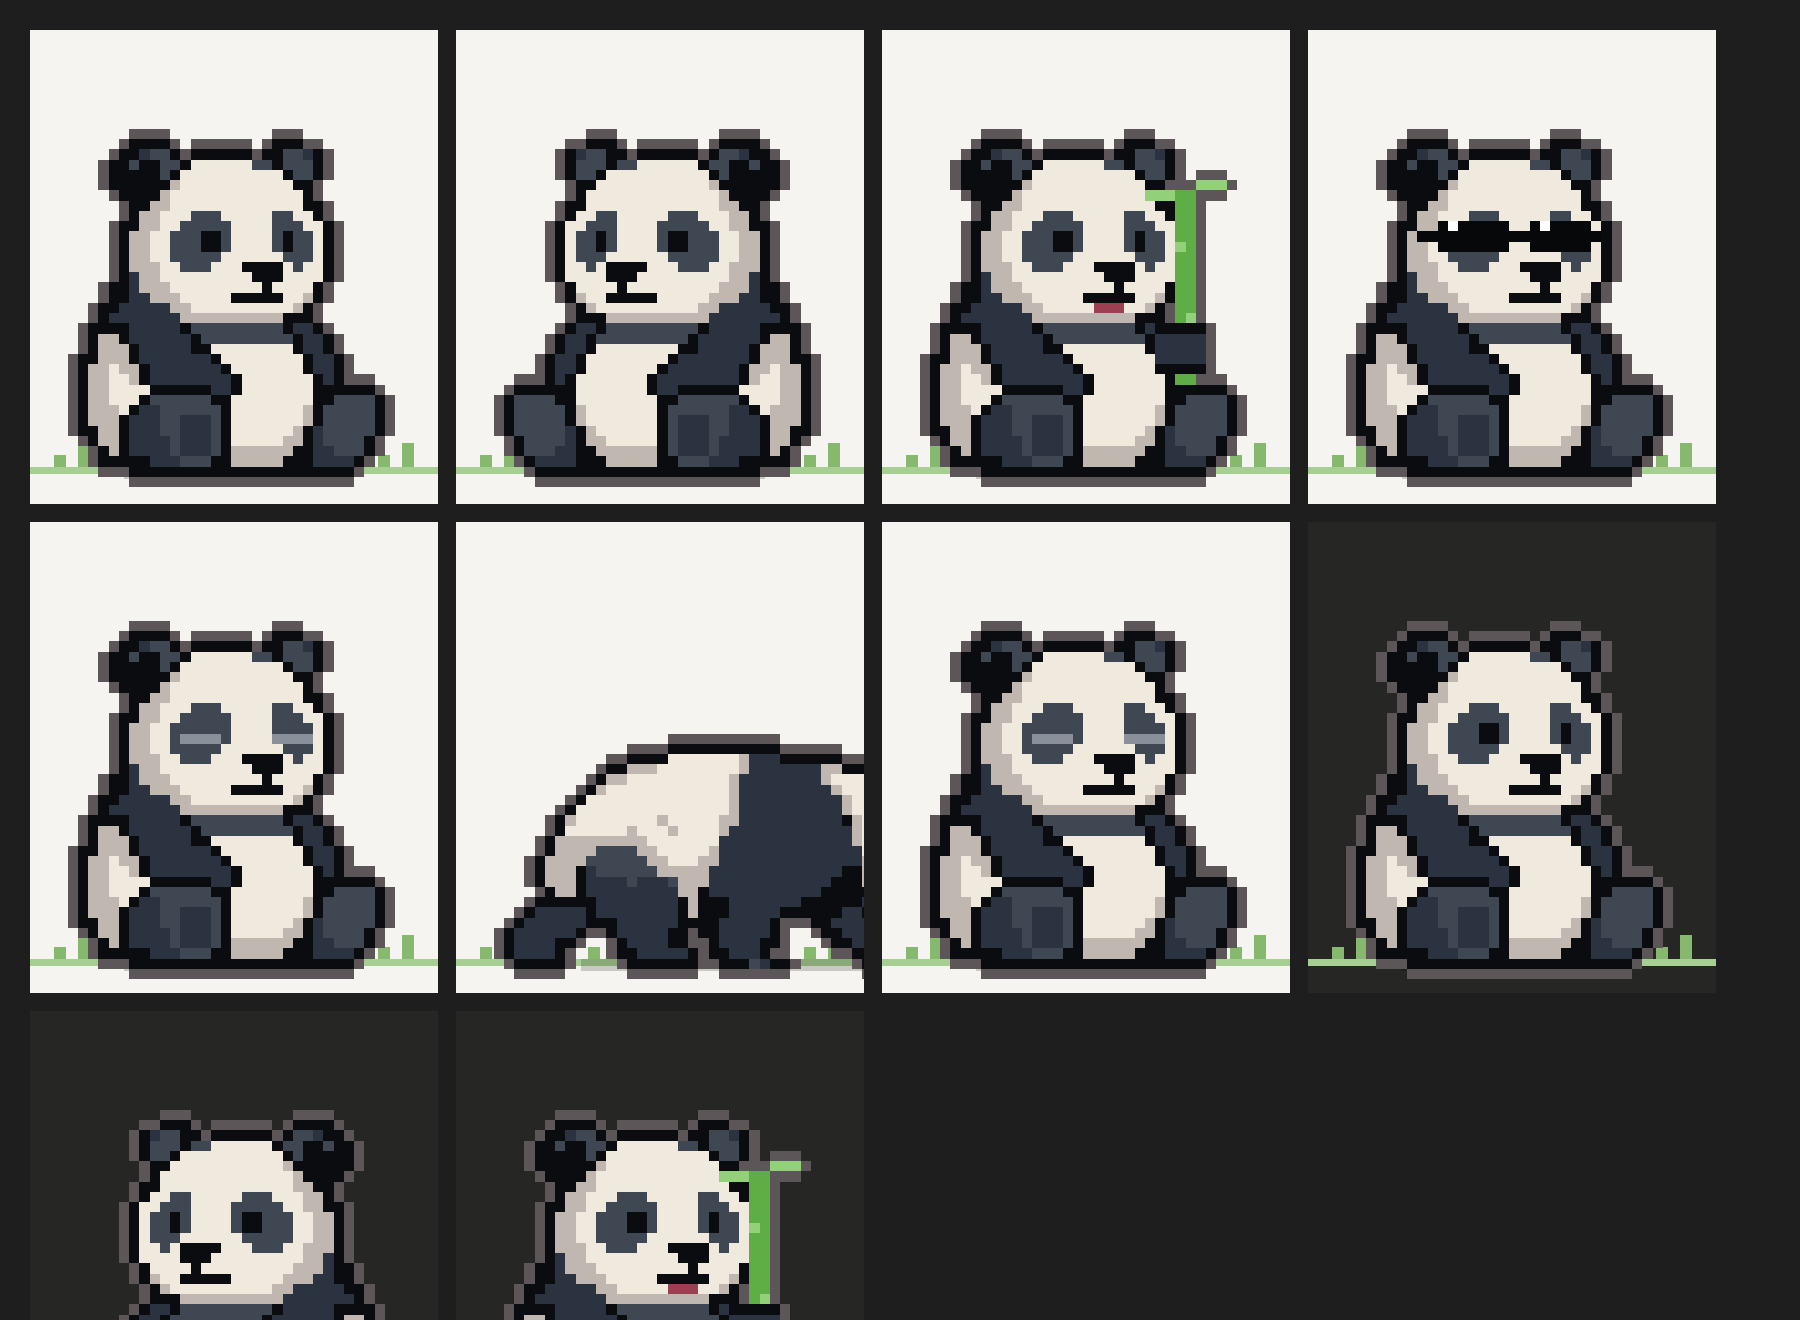
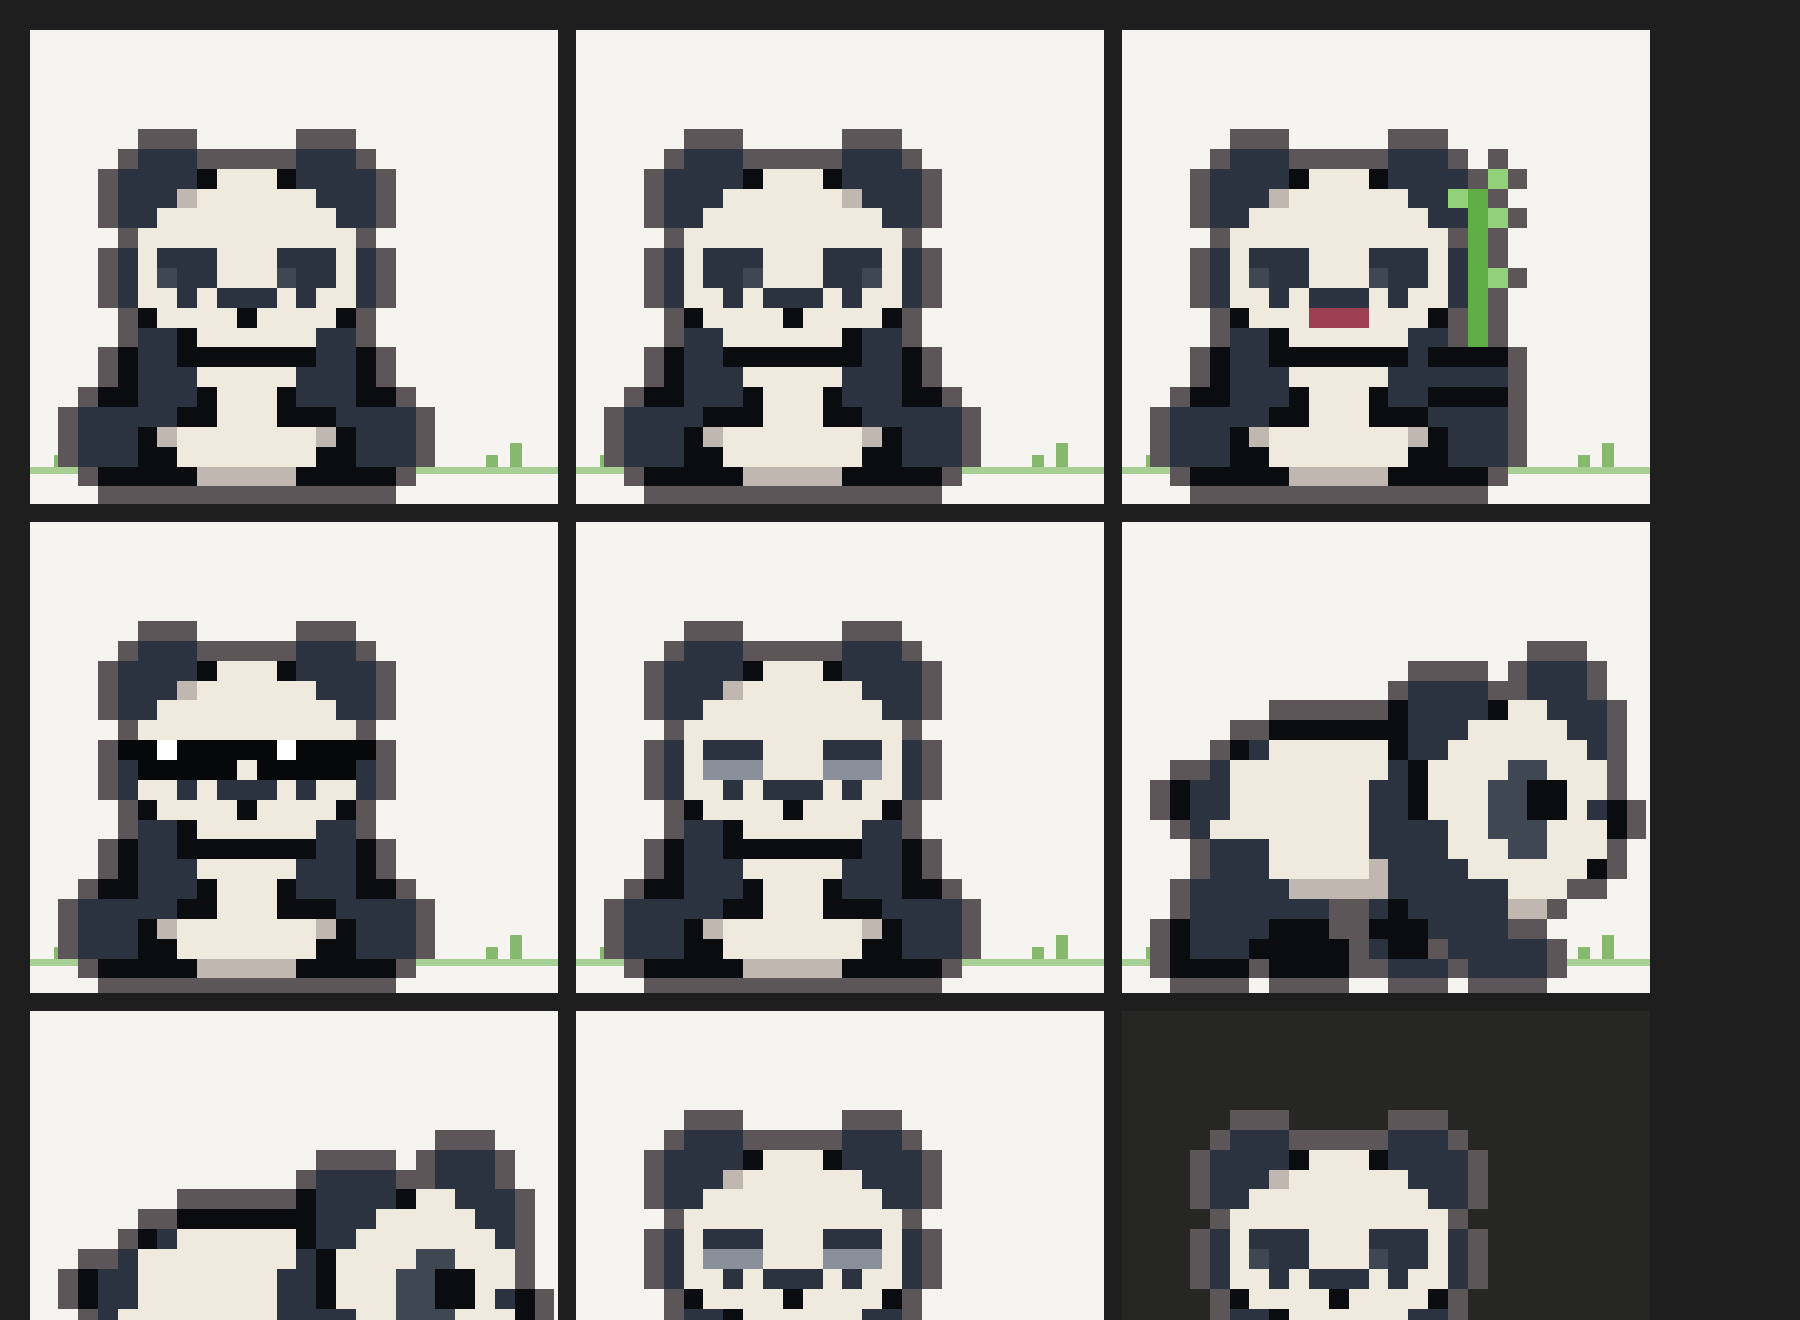
buddy: new chunkier panda art
Replace the sitting and walking sprites with the new 17x17 and 23x16
pixel art (art/panda.png); the second walking step is the first with
its legs moved. The terminal draws it pixel for pixel in 9 lines.

Claude-Session: https://claude.ai/code/session_01FB6BJrRqbn2oSwVncdYdDf

diff --git a/plugins/buddy/hooks/panda.ts b/plugins/buddy/hooks/panda.ts
@@ -2,8 +2,7 @@ import type { Scene } from '../types'
 import { bubbleSvg, halfBlocksFromPixels, mirror, outline, pick, pixels, put, shadowSvg, smoothResize, spriteToRgba, svgOpen } from './shared'
 import type { Character } from './shared'
 
-// The panda: pixel art for sitting (art/sit.png) and walking (art/walk-1.png,
-// art/walk-2.png), facing right. Blinking, shades, chewing and the bamboo are
+// The panda: pixel art for sitting and walking (art/panda.png), facing right. Blinking, shades, chewing and the bamboo are
 // drawn over the sitting sprite in code.
 //
 // Pixels: E outline and eyes, K dark fur, k lighter dark fur, W white fur,
@@ -12,39 +11,23 @@ import type { Character } from './shared'
 type Pose = { w: number; h: number; sprite: string[] }
 
 const SIT = [
-  '.....EEEE..........EEE........',
-  '....EEKkkE.EEEEEE.EEkkKE......',
-  '...EEkEEkkEWWWWWWkkEkkkE......',
-  '...EEEEEkEWWWWWWWWWWEkkE......',
-  '...EEEEEESWWWWWWWWWWWEE.......',
-  '....EEEESWWWWWWWWWWWWWE.......',
-  '.....EESSWWWWWWWWWWWWWEE......',
-  '.....ESSWWWkkkWWWWWkkWWE......',
-  '....EESSWWkkkkkWWWWkkkWWE.....',
-  '....ESSWWkkkEEkWWWWkEkkWE.....',
-  '....ESSWWkkkEEkWWWWkEkkWE.....',
-  '....ESSWWkkkkkWWWWWWkkkWE.....',
-  '....ESSSWWkkkWWWEEEEWkWWE.....',
-  '....EKSSWWWWWWWWWEEEWWWWE.....',
-  '...EEKSSSWWWWWWWWWEWWWWE......',
-  '...EEKKSSSWWWWWEEEEEWWSE......',
-  '..EEKKKKKSSWWWWWWWWWWSE.......',
-  '..EKKKKKKKSSSSSSSSSSEEE.......',
-  '.EEEEKKKKKEkkkkkkkkkEKKE......',
-  '.ESSEKKKKKKEkkkkkkkkkEKKE.....',
-  '.ESSSEKKKKKEEWWWWWWWWEKKE.....',
-  'EESSSEKKKKKKKEWWWWWWWWEKKE....',
-  'ESSWSSEKKKKKKKEWWWWWWWEKKE....',
-  'ESSWWSEKKKKKKKKEWWWWWWWEKE....',
-  'ESSWWWWEEEEEEKKEWWWWWWWEEEEEE.',
-  'ESSWWWEkkkkkkEEWWWWWWWWEEkkkkE',
-  'ESSSWEKKkkkkkkEWWWWWWWSEkkkkkE',
-  'ESSSEKKKkkKKKkEWWWWWWWSEkkkkkE',
-  'EESSEKKKkkKKKkEWWWWWWSEKkkkkkE',
-  '.ESSEKKKKkKKKkEWWWWWSSEKkkkkE.',
-  '..ESEKKKKkKKKkESSSSSSEEKKkkkE.',
-  '..EEEEEKKKkkkEESSSSSEEEKKKKE..',
-  '.....EEEEEEEEEEEEEEEEEEEEEE...',
+  '...KKK.....KKK...',
+  '..KKKKEWWWEKKKK..',
+  '..KKKSWWWWWWKKK..',
+  '..KKWWWWWWWWWKK..',
+  '...WWWWWWWWWWW...',
+  '..KWKKKWWWKKKWK..',
+  '..KWkKKWWWkKKWK..',
+  '..KWWKWKKKWKWWK..',
+  '...EWWWWEWWWWE...',
+  '...KKEWWWWWWKK...',
+  '..EKKEEEEEEEKKE..',
+  '..EKKKWWWWWKKKE..',
+  '.EEKKKEWWWEKKKEE.',
+  'KKKKKEEWWWEEEKKKK',
+  'KKKESWWWWWWWSEKKK',
+  'KKKEEWWWWWWWEEKKK',
+  '.EEEEESSSSSEEEEE.',
 ]
 const SIT_W = SIT[0]?.length ?? 0
 const SIT_H = SIT.length
@@ -55,92 +38,76 @@ function sitting(s: Scene): Pose {
     for (let c = c0; c <= c1; c++) put(rows, r, c, ch)
   }
   if (s.isAsleep || s.isBlinking) {
-    // Pupils gone, a lighter line across each patch
-    set(9, 12, 13, 'k')
-    set(10, 12, 13, 'k')
-    set(9, 20, 20, 'k')
-    set(10, 20, 20, 'k')
-    set(10, 10, 13, 'L')
-    set(10, 19, 22, 'L')
+    // A lighter line across each eye patch
+    set(5, 4, 6, 'K')
+    set(5, 10, 12, 'K')
+    set(6, 4, 6, 'L')
+    set(6, 10, 12, 'L')
   } else if (s.isHappy) {
     // Shades on: two lenses, a bridge, and arms out to the ears
-    for (let r = 8; r <= 10; r++) {
-      set(r, 8, 14, 'B')
-      set(r, 17, 22, 'B')
+    for (let r = 5; r <= 6; r++) {
+      set(r, 3, 7, 'B')
+      set(r, 9, 13, 'B')
     }
-    set(9, 15, 16, 'B')
-    set(9, 6, 7, 'B')
-    put(rows, 9, 23, 'B')
-    put(rows, 8, 9, 'w')
-    put(rows, 8, 18, 'w')
+    put(rows, 5, 8, 'B')
+    put(rows, 5, 2, 'B')
+    put(rows, 5, 14, 'B')
+    put(rows, 5, 4, 'w')
+    put(rows, 5, 10, 'w')
   }
-  if (s.chew) set(16, 16, 18, 'R')
+  if (s.chew) set(8, 7, 9, 'R')
   if (s.isMunching) {
     // A stalk of bamboo held up in the near paw, leaves at the top
-    for (let r = 5; r <= 23; r++) set(r, 24, 25, 'G')
-    put(rows, 10, 24, 'g')
-    put(rows, 17, 25, 'g')
-    set(4, 26, 28, 'g')
-    set(5, 21, 23, 'g')
-    set(18, 22, 26, 'E')
-    set(19, 22, 26, 'K')
-    set(20, 22, 26, 'K')
-    set(21, 22, 26, 'K')
-    set(22, 22, 26, 'E')
+    for (let r = 2; r <= 12; r++) put(rows, r, 15, 'G')
+    put(rows, 1, 16, 'g')
+    put(rows, 3, 16, 'g')
+    put(rows, 2, 14, 'g')
+    put(rows, 6, 16, 'g')
+    set(10, 13, 16, 'E')
+    set(11, 13, 16, 'K')
+    set(12, 13, 16, 'E')
   }
   return { w: SIT_W, h: SIT_H, sprite: rows }
 }
 
-// The walking panda is pixel art too (art/walk-1.png and art/walk-2.png),
-// two steps, facing right
+// The walking panda is pixel art too (art/walk.png), facing right; the
+// second step is the first with its legs moved
 const WALK = [
   [
-    '................EEEEEEEEEEE.......................',
-    '............EEEEWWWWWWWSKKKEEEEEE...EE............',
-    '..........EESSSWWWWWWWWSKKKKKKKSSEEEWWEEEE........',
-    '.........ESSWWWWWWWWWWSKKKKKKKKSWWWWWWWKKEE.......',
-    '........ESWWWWWWWWWWWWSKKKKKKKKKSWWWWWKKKESE......',
-    '.......EWWWWWWWWWWWWWWSKKKKKKKKKKSWWWEKKEESE......',
-    '......EWWWWWWWWWWWWWWWSKKKKKKKKKKSWWWEEESSWWE.....',
-    '.....ESWWWWWWWWSWWWWWSSKKKKKKKKKKESWSSESWWWWWSE...',
-    '.....EWWWWWWSWWWSWWWWSKKKKKKKKKKKKSWWSSWWWWWWWE...',
-    '....ESSSSSSSSSWWWWWWWKKKKKKKKKKKKKSWWWWWWWkkWSE...',
-    '....ESSSSkkkkSSWWWWWSKKKKKKKKKKKKKKWWSWWWkKEEWE...',
-    '...ESSSSkkkkkkSSWWWSSKKKKKKKKKKKKKKSWSWWWkEEEWWE..',
-    '...ESSSEKkkkkkkSSSSSKKKKKKKKKKKKKEESWSWWkkEEWWWWE.',
-    '...ESSSEKKKKkKKKkSSSKKKKKKKKKKKKEEESSSSWWkkWWWWWE.',
-    '....ESSEKKKKKKKKKSSEKKKKKKKKKKKEEEEEEEESSWWWWWkEE.',
-    '...EEEEEEKKKKKKKKESEEEKKKKKKKEEEEEEKEEEEEESSSEE...',
-    '..EKKKKKEKKKKKKKKESEEEKKKKKEEEEEEKKEE.....EEE.....',
-    '.EKKKKKKEEEKKKKKKEEEEKKKKKE...EEKKKKKE............',
-    'EKKKKKKE..EKKKKKEE.EEKKKKKE....EEKKKKKEE..........',
-    'EKKKKEE....EKKKKEE..EKKKKEE.....EEKKKKKKE.........',
-    'EKKKKE.....EEKKKKKE.EEKKKE........EEKKKKkE........',
-    '.EEEEE......EEEEEEE..EEEkKEE.......EEEEEEE........',
+    '..................KKK..',
+    '............KKKK..KKK..',
+    '...........EKKKKEWWKKK.',
+    '.....EEEEEEEKKKWWWWWKK.',
+    '...EKWWWWWWEKKWWWWWWWK.',
+    '..KWWWWWWWWKEWWWWkkWWW.',
+    'EKKWWWWWWWKKEWWWkkEEWW.',
+    'EKKWWWWWWWKKEWWWkkEEWKE',
+    '.KWWWWWWWWKKKKWWkkkWWWE',
+    '..KKKWWWWWKKKKWWWkkWWW.',
+    '..KKKWWWWWSKKKKWWWWWWE.',
+    '.KKKKKSSSSSKKKKKKWWW...',
+    '.KKKKKKK..KEKKKKKSS....',
+    'EKKKKEEE..EEEKKKK......',
+    'EKKKEEEEE.KEE.KKKKK....',
+    'EEEE.EEEE..KKK.KKKK....',
   ],
   [
-    '................EEEEEEEEEEE.......................',
-    '.............EEEWWWWWWWSKKKEEEEEEE...EE...........',
-    '..........EEESSWWWWWWWWSKKKKKKKSSSEEEWWEEEE.......',
-    '.........ESSSWWWWWWWWWWKKKKKKKKKSWWWWWWWKKKE......',
-    '........ESWWWWWWWWWWWWWKKKKKKKKKKSWWWWWEKKKSE.....',
-    '.......EWWWWWWWWWWWWWWWKKKKKKKKKKSWWWWEKKEESEE....',
-    '......EWWWWWWWWWWWWWWWSKKKKKKKKKKKSWWWEKKkSWWEE...',
-    '.....ESWWWWWWWWSWWWWWWSKKKKKKKKKKKESWSSESWWWWWSE..',
-    '....EkWWWWWWSWWWSWWWWWSKKKKKKKKKKKKSWWSSWWWWWWWE..',
-    '....EWWWSSSSSSWWWWWWWWKKKKKKKKKKKKKSWWWWWWWkkWSE..',
-    '....EWWSSkkkkkSWWWWWWSKKKKKKKKKKKKKKWWWWWWkEEEWE..',
-    '...EWWWSkkkkkkkSWWWWSSKKKKKKKKKKKKKKSWSWWWkEEEWWE.',
-    '...EWWSKKKkkkkKkSSSSSKKKKKKKKKKKKKKESSSWWkkEEWWWWE',
-    '...ESSSEKKKKkkKKKSSSSKKKKKKKKKKKKKEEESSSWWkkWWWWWE',
-    '....EEEEEKKKKKKKKSSSKKKKKKKKKKKKEEEEEEESSSSWWSWWE.',
-    '...EEKKEEKKKKKKKKESSKKKKKKKKKKKEEEEEE..EEEESSSEE..',
-    '..EKKKKKEEKKKKKKKESSKKKKKKKKKE.EEEKKE......EEE....',
-    '.EKKKKKEEEEKKKKKKEEEEEEKKKKKEE.EEKKKKEE...........',
-    'EKKKKKEE..EEKKKKKE.....EKKKKKE..EEKKKKEE..........',
-    'EKKKEE.....EKKKKEKE....EKKKKE.....EKKKKKE.........',
-    'EKKKKE.....EEKKKKKKE....EKKkEE.....EKKKKkE........',
-    '.EEEEE......EEEEEkEE....EEEEkE......EEEEEE........',
+    '..................KKK..',
+    '............KKKK..KKK..',
+    '...........EKKKKEWWKKK.',
+    '.....EEEEEEEKKKWWWWWKK.',
+    '...EKWWWWWWEKKWWWWWWWK.',
+    '..KWWWWWWWWKEWWWWkkWWW.',
+    'EKKWWWWWWWKKEWWWkkEEWW.',
+    'EKKWWWWWWWKKEWWWkkEEWKE',
+    '.KWWWWWWWWKKKKWWkkkWWWE',
+    '..KKKWWWWWKKKKWWWkkWWW.',
+    '..KKKWWWWWSKKKKWWWWWWE.',
+    '.KKKKKSSSSSKKKKKKWWW...',
+    '..KKKKKKK..KKKKKSS.....',
+    '.EKKKKEEE..EKKKK.......',
+    '.EKKKEEEEE.E.KKKKK.....',
+    '.EEEE.EEEE.KK.KKKK.....',
   ],
 ]
 
@@ -158,10 +125,10 @@ function pose(s: Scene): Pose {
 
 // ---------------------------------------------------------------- drawing
 
-const TERM_W = 36 // columns the terminal strip may take
+const TERM_W = 24 // columns the terminal strip may take
 // The hd picture's canvas: wide enough for the walking pose, tall enough for
 // the sitting one plus the highest jump
-const CANVAS_W = 50
+const CANVAS_W = 24
 const CANVAS_H = SIT_H + 4
 
 function onCanvas(sprite: string[], air: number): string[] {
@@ -180,7 +147,7 @@ function onCanvas(sprite: string[], air: number): string[] {
   }
   return rows
 }
-const TERM_MAX_ROWS = 34 // pixel rows at most, two per text row: the art at full size
+const TERM_MAX_ROWS = 18 // pixel rows at most, two per text row: the art at full size
 
 const TERM = {
   E: '#1e2026',

diff --git a/plugins/buddy/hooks/register.tsx b/plugins/buddy/hooks/register.tsx
@@ -38,7 +38,7 @@ const isHidden = atom({ plugin: 'buddy', key: 'isHidden' } as const, false)
 let kind: Kind = 'dino'
 // How tall the buddy may be in the terminal, in pixel rows (two per text row)
 // Pixel rows the buddy may use in the terminal, two per text row
-const TERM_ROWS = 16
+const TERM_ROWS = 18
 // Whether the terminal draws the buddy as a real picture: on, off, or auto
 // (on in terminals known to draw pictures: kitty, Ghostty, WezTerm)
 type Hd = 'auto' | 'on' | 'off'

diff --git a/plugins/buddy/README.md b/plugins/buddy/README.md
@@ -48,4 +48,4 @@ Characters live in `hooks/dino.ts` and `hooks/panda.ts`; the engine is `hooks/re
 
 ## Art
 
-The panda's sitting and walking poses are pixel art in `art/` (facing right): `sit.png` (30 × 33) and `walk-1.png`, `walk-2.png` (50 × 22). They're read into `hooks/panda.ts` as the `SIT` and `WALK` rows. Blinking, sunglasses, chewing and the bamboo are drawn over the sitting pose in code. When it falls asleep it sits down, closes its eyes and snores.
+The panda's sitting and walking poses are pixel art in `art/panda.png` (facing right): a 17 × 17 sitting pose and a 23 × 16 walking pose, read into `hooks/panda.ts` as the `SIT` and `WALK` rows; the second walking step is the first with its legs moved. Blinking, sunglasses, chewing and the bamboo are drawn over the sitting pose in code. When it falls asleep it sits down, closes its eyes and snores.
